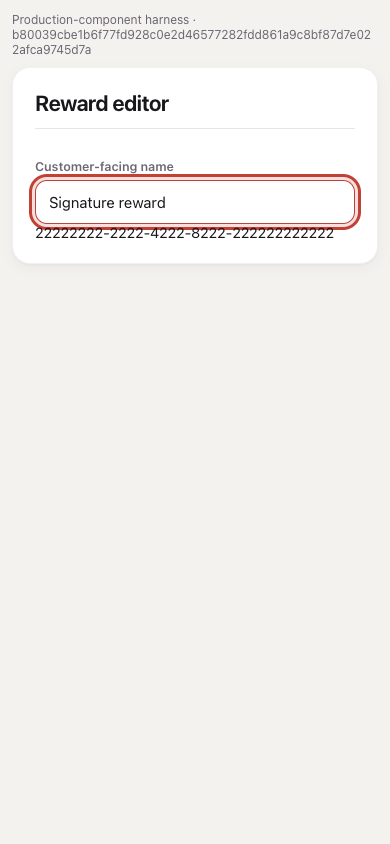
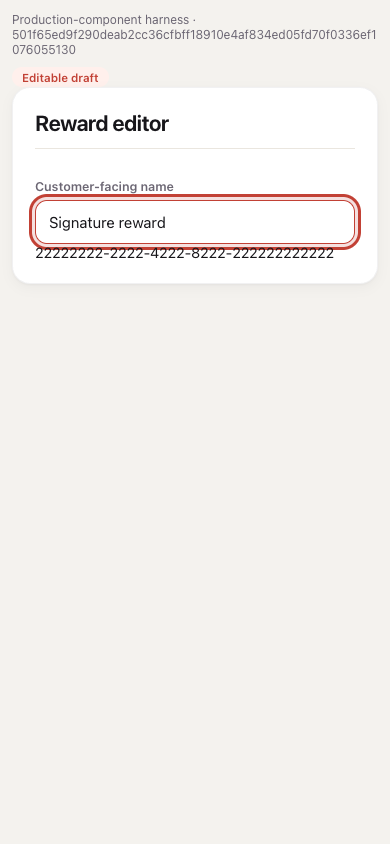
fix(grow): label editable drafts truthfully (V140)

Changed region(s): [[0.0615, 0.1848, 0.9231, 0.3081], [0.0308, 0.0308, 0.9538, 0.154]]

diff --git a/tests/browser/reward-overview-owner-visual.html b/tests/browser/reward-overview-owner-visual.html
@@ -1,5 +1,5 @@
 <!doctype html><html lang="en"><head><meta charset="utf-8"><meta name="viewport" content="width=device-width,initial-scale=1"><link rel="icon" href="data:,">
[2 lines of base64/hex data omitted]
 /* ============================================================================
    Frenly design system v2 — "mockup layout, iOS polish" (owner ruling 2026-07-18)
    Principles: 8pt grid · SF-grade type with tight optical tracking · hairline
@@ -978,7 +978,7 @@ button.rewards-overview-card:focus-visible{outline:3px solid rgba(201,67,51,.25)
 }
 
     body{padding:24px}.visual-shell{max-width:1180px;margin:0 auto}.visual-provenance{margin:0 0 10px;color:var(--muted);font-size:12px;overflow-wrap:anywhere}
-    @media(max-width:600px){body{padding:12px}}</style></head><body><div class="visual-shell"><p class="visual-provenance">Production-component harness · b80039cbe1b6f77fd928c0e2d46577282fdd861a9c8bf87d7e022afca9745d7a</p><main id="main"></main></div>
+    @media(max-width:600px){body{padding:12px}}</style></head><body><div class="visual-shell"><p class="visual-provenance">Production-component harness · 501f65ed9f290deab2cc36cfbff18910e4af834ed05fd70f0336ef1076055130</p><main id="main"></main></div>
     <script>
     const $=id=>document.getElementById(id);
     const esc=value=>String(value??'').replace(/[&<>"']/g,char=>({'&':'&amp;','<':'&lt;','>':'&gt;','"':'&quot;',"'":'&#39;'}[char]));
@@ -987,6 +987,7 @@ button.rewards-overview-card:focus-visible{outline:3px solid rgba(201,67,51,.25)
       loadingState:({title})=>'<section class="card">Loading '+esc(title)+'…</section>',
       emptyState:({title,body})=>'<div class="empty"><b>'+esc(title)+'</b><p>'+esc(body)+'</p></div>',announce:()=>{},
       pageHeader:({title,subtitle})=>'<header class="cui-page-head"><div class="cui-page-title"><div><h1>'+esc(title)+'</h1><p>'+esc(subtitle||'')+'</p></div></div></header>',
+      action:({id,label,variant='primary'})=>'<button class="btn '+esc(variant)+'" id="'+esc(id)+'">'+esc(label)+'</button>',
       activateDialog:(modal,{onClose,initialFocus}={})=>{const prior=document.activeElement;
         const keydown=event=>{if(event.key==='Escape'){event.preventDefault();onClose?.()}};
         document.addEventListener('keydown',keydown);queueMicrotask(()=>modal.querySelector(initialFocus)?.focus());
@@ -1022,6 +1023,11 @@ button.rewards-overview-card:focus-visible{outline:3px solid rgba(201,67,51,.25)
    still only ever sees that one module key pass the filter, so hasRewards/hasWinback below
    can never both be false while this renders. Links to whichever tab is already open if the
    staff member is already on the Grow surface, else defaults to Everyday rewards. */
+    function loyaltyAuthorityActionV140({canManage=false,draftVersionId=null}={}){
+  if(!canManage)return '<span class="pill off">Read only</span>';
+  if(draftVersionId)return '<span class="pill new">Editable draft</span>';
+  return CUI.action({id:'loyaltyRecommend',label:'Create recommended draft',iconName:'add',variant:'secondary'});
+}
     function growLoyaltyEditorIntentV139({focusTarget=null,rewardId=null}={}){
   if(rewardId)return {kind:'reward',rewardId};
   if(focusTarget==='birthdayLabel')return {kind:'birthday'};
@@ -1128,7 +1134,7 @@ function pruneRewardSiblingsV139(root){
     }};
     async function loyaltyPage(modelOverride,draftVersionId,recommendation,stableRefresh,editorIntent){
       const host=M();
-      host.innerHTML='<section class="card" id="loyaltyCustomerRedemption">Customer redemption</section><div class="split"><section class="card" id="loyaltyProgramEditor"><h2>Earning editor</h2><label for="lm">Loyalty model</label><select id="lm"><option>Simple points</option></select><label for="lr">Points needed to redeem</label><input id="lr" value="1000"></section><section class="card" id="loyaltyRewardEditor"><h2>Reward editor</h2><button class="btn sm" id="rwAdd">+ Add reward</button><div class="reward-list" id="rwList">'+fixture.rewards.map(reward=>'<button class="btn ghost sm rwEdit" data-reward-id="'+reward.id+'">Edit '+esc(reward.customer_name)+'</button>').join('')+'</div><div id="rwEditor"></div></section></div><section class="card" id="birthdayEditorCard"><label for="birthdayLabel">Birthday benefit</label><input id="birthdayLabel" value="Birthday Glow"></section>';
+      host.innerHTML='<div id="loyaltyAuthority">'+loyaltyAuthorityActionV140({canManage:!isManager,draftVersionId})+'</div><section class="card" id="loyaltyCustomerRedemption">Customer redemption</section><div class="split"><section class="card" id="loyaltyProgramEditor"><h2>Earning editor</h2><label for="lm">Loyalty model</label><select id="lm"><option>Simple points</option></select><label for="lr">Points needed to redeem</label><input id="lr" value="1000"></section><section class="card" id="loyaltyRewardEditor"><h2>Reward editor</h2><button class="btn sm" id="rwAdd">+ Add reward</button><div class="reward-list" id="rwList">'+fixture.rewards.map(reward=>'<button class="btn ghost sm rwEdit" data-reward-id="'+reward.id+'">Edit '+esc(reward.customer_name)+'</button>').join('')+'</div><div id="rwEditor"></div></section></div><section class="card" id="birthdayEditorCard"><label for="birthdayLabel">Birthday benefit</label><input id="birthdayLabel" value="Birthday Glow"></section>';
       applyGrowLoyaltyEditorIsolationV139(host,editorIntent);
       host.querySelectorAll('.rwEdit').forEach(button=>button.onclick=()=>{
         const reward=fixture.rewards.find(item=>item.id===button.dataset.rewardId);
@@ -1891,7 +1897,7 @@ function pruneRewardSiblingsV139(root){
     await mountGrowSurface(initialAction.surface,{focus:false,draftOverride:hashParam||growDraftVersionId,...initialAction});
   }
 }
[2 lines of base64/hex data omitted]
       viewport:{clientWidth:document.documentElement.clientWidth,scrollWidth:document.documentElement.scrollWidth},
       title:$('rewardJourneyTitle')?.textContent||'',cards:[...document.querySelectorAll('.grow-programme-row')].map(card=>({tag:card.tagName,programmeKind:card.dataset.programmeKind||null,kind:card.dataset.rewardsOverviewEdit||null,rewardId:card.dataset.rewardId||null,programId:card.dataset.programId||null,href:card.getAttribute('href'),height:card.getBoundingClientRect().height,width:card.getBoundingClientRect().width,text:card.textContent.trim()})),
       editButtons:document.querySelectorAll('[data-rewards-overview-edit]').length,openedRewardId:window.__openedRewardId||null,
@@ -1904,6 +1910,7 @@ function pruneRewardSiblingsV139(root){
       birthdayRpcCalls:window.__rpcCalls.filter(name=>name==='get_active_birthday_program').length,
       birthdayTableReads:window.__tableReads.filter(name=>name==='birthday_program_versions').length,
       retentionName:$('rn')?.value||'',retentionMissing:Boolean($('retentionExactProgramMissing')),
+      authorityLabel:$('loyaltyAuthority')?.textContent.trim()||'',
       editorIntent:M()?.dataset.growEditorIntent||'',programEditors:document.querySelectorAll('#loyaltyProgramEditor').length,
       rewardEditors:document.querySelectorAll('#loyaltyRewardEditor').length,birthdayEditors:document.querySelectorAll('#birthdayEditorCard').length,
       redemptionEditors:document.querySelectorAll('#loyaltyCustomerRedemption').length,rewardLists:document.querySelectorAll('#rwList').length,

diff --git a/tests/browser/v129-trial-test-visual.html b/tests/browser/v129-trial-test-visual.html
@@ -1,5 +1,5 @@
 <!doctype html><html lang="en"><head><meta charset="utf-8"><meta name="viewport" content="width=device-width,initial-scale=1">
[2 lines of base64/hex data omitted]
 /* ============================================================================
    Frenly design system v2 — "mockup layout, iOS polish" (owner ruling 2026-07-18)
    Principles: 8pt grid · SF-grade type with tight optical tracking · hairline
@@ -979,7 +979,7 @@ button.rewards-overview-card:focus-visible{outline:3px solid rgba(201,67,51,.25)
 
   body{padding:20px}.v129-shell{max-width:1180px;margin:auto}.v129-provenance{font-size:11px;color:var(--muted);overflow-wrap:anywhere;margin-bottom:10px}.v129-nav{display:flex;gap:8px;overflow:auto;margin-bottom:14px}.v129-nav button{white-space:nowrap}.appointment-detail-modal{position:relative;inset:auto;background:transparent;padding:0}.appointment-detail-modal .modal-card{margin:0 auto}
   @media(max-width:600px){body{padding:10px}.card{padding:16px}}
-  </style></head><body><div class="v129-shell"><p class="v129-provenance">Actual production-renderer harness · fc972ff64351f988dc0f76d199c3d18096c2595d6c58ae60ff56a76d6c84262a</p>
+  </style></head><body><div class="v129-shell"><p class="v129-provenance">Actual production-renderer harness · c56943502ebf0dc1f920c844137470f3377342f135d819c1f628b6fe4ab5f448</p>
   <nav class="v129-nav" aria-label="V129 acceptance views"><button class="btn" data-view="customers">Customers</button><button class="btn ghost" data-view="profile">Customer profile</button><button class="btn ghost" data-view="appointment">Appointment</button><button class="btn ghost" data-view="sale">Record sale</button></nav>
   <main id="main"></main></div><div id="toast" class="toast"></div><div id="appStatus"></div><div id="appAlert"></div><script>
   (function customerUiFactory(global){
@@ -3618,6 +3618,11 @@ async function withGrowEditorContinuity(render,{message='Draft updated.',preserv
     growHost.classList.remove('grow-panel-updating');growHost.removeAttribute('aria-busy');
   }
 }
+function loyaltyAuthorityActionV140({canManage=false,draftVersionId=null}={}){
+  if(!canManage)return '<span class="pill off">Read only</span>';
+  if(draftVersionId)return '<span class="pill new">Editable draft</span>';
+  return CUI.action({id:'loyaltyRecommend',label:'Create recommended draft',iconName:'add',variant:'secondary'});
+}
 function growLoyaltyEditorIntentV139({focusTarget=null,rewardId=null}={}){
   if(rewardId)return {kind:'reward',rewardId};
   if(focusTarget==='birthdayLabel')return {kind:'birthday'};
@@ -3811,7 +3816,7 @@ async function loyaltyPage(modelOverride,draftVersionId=null,recommendation=null
   const firmExpiryMode=p?.expiry_mode??'none';
   const firmExpiryDays=positiveExpiryDays(p?.expiry_days)||365;
   const firmExpiryNeedsDays=expiryModeRequiresDays(firmExpiryMode);
-  const loyaltyActions=canManageLoyalty&&!draftVersionId?CUI.action({id:'loyaltyRecommend',label:'Create recommended draft',iconName:'add',variant:'secondary'}):'<span class="pill off">Read only</span>';
+  const loyaltyActions=loyaltyAuthorityActionV140({canManage:canManageLoyalty,draftVersionId});
   const publishedBirthdaySummary=publishedBirthdayProgram
     ?`<div class="wallet-line" style="margin-top:12px"><div><b>${esc(publishedBirthdayProgram.customer_label||'Birthday benefit')}</b><p class="muted small" style="margin-top:4px">${esc(publishedBirthdayProgram.fulfillment_kind==='discount_pct'?`${publishedBirthdayProgram.discount_percent}% off`:publishedBirthdayProgram.manual_item||'Manual benefit')} · ${publishedBirthdayProgram.active?'Live for eligible customers':'Published but paused'} · window ${Number(publishedBirthdayProgram.window_days_before||0)} day(s) before to ${Number(publishedBirthdayProgram.window_days_after||0)} day(s) after</p>${publishedBirthdayProgram.customer_description?`<p class="muted small" style="margin-top:4px">${esc(publishedBirthdayProgram.customer_description)}</p>`:''}</div><span class="spacer"></span><span class="pill ${publishedBirthdayProgram.active?'on':'off'}">Published</span></div>`
     :'<p class="muted small" style="margin-top:10px">No birthday benefit is published. Starting a draft makes no offer until you complete, explicitly enable, and publish it.</p>';
@@ -8842,6 +8847,6 @@ async function svRunTopupFlow({branches,state,testOnly}){
   }
   document.querySelectorAll('[data-view]').forEach(button=>button.addEventListener('click',()=>showView(button.dataset.view)));
   window.addEventListener('error',event=>window.__consoleErrors.push(event.message));
[2 lines of base64/hex data omitted]
   const initial=new URLSearchParams(location.search).get('view')||'customers';showView(initial).catch(error=>window.__consoleErrors.push(String(error?.stack||error)));
   </script></body></html>

diff --git a/app/index.html b/app/index.html
@@ -9550,6 +9550,11 @@ async function withGrowEditorContinuity(render,{message='Draft updated.',preserv
     growHost.classList.remove('grow-panel-updating');growHost.removeAttribute('aria-busy');
   }
 }
+function loyaltyAuthorityActionV140({canManage=false,draftVersionId=null}={}){
+  if(!canManage)return '<span class="pill off">Read only</span>';
+  if(draftVersionId)return '<span class="pill new">Editable draft</span>';
+  return CUI.action({id:'loyaltyRecommend',label:'Create recommended draft',iconName:'add',variant:'secondary'});
+}
 function growLoyaltyEditorIntentV139({focusTarget=null,rewardId=null}={}){
   if(rewardId)return {kind:'reward',rewardId};
   if(focusTarget==='birthdayLabel')return {kind:'birthday'};
@@ -9743,7 +9748,7 @@ async function loyaltyPage(modelOverride,draftVersionId=null,recommendation=null
   const firmExpiryMode=p?.expiry_mode??'none';
   const firmExpiryDays=positiveExpiryDays(p?.expiry_days)||365;
   const firmExpiryNeedsDays=expiryModeRequiresDays(firmExpiryMode);
-  const loyaltyActions=canManageLoyalty&&!draftVersionId?CUI.action({id:'loyaltyRecommend',label:'Create recommended draft',iconName:'add',variant:'secondary'}):'<span class="pill off">Read only</span>';
+  const loyaltyActions=loyaltyAuthorityActionV140({canManage:canManageLoyalty,draftVersionId});
   const publishedBirthdaySummary=publishedBirthdayProgram
     ?`<div class="wallet-line" style="margin-top:12px"><div><b>${esc(publishedBirthdayProgram.customer_label||'Birthday benefit')}</b><p class="muted small" style="margin-top:4px">${esc(publishedBirthdayProgram.fulfillment_kind==='discount_pct'?`${publishedBirthdayProgram.discount_percent}% off`:publishedBirthdayProgram.manual_item||'Manual benefit')} · ${publishedBirthdayProgram.active?'Live for eligible customers':'Published but paused'} · window ${Number(publishedBirthdayProgram.window_days_before||0)} day(s) before to ${Number(publishedBirthdayProgram.window_days_after||0)} day(s) after</p>${publishedBirthdayProgram.customer_description?`<p class="muted small" style="margin-top:4px">${esc(publishedBirthdayProgram.customer_description)}</p>`:''}</div><span class="spacer"></span><span class="pill ${publishedBirthdayProgram.active?'on':'off'}">Published</span></div>`
     :'<p class="muted small" style="margin-top:10px">No birthday benefit is published. Starting a draft makes no offer until you complete, explicitly enable, and publish it.</p>';

diff --git a/docs/qa/TRACEABILITY-MATRIX.md b/docs/qa/TRACEABILITY-MATRIX.md
@@ -58,6 +58,7 @@ journey.
 | `GROW-VISIBILITY-001` | Owner sees one truthful active/on or paused/off control in the exact submodule, backed by the existing server programme/module contract. | Owner toggles once with pending/success/error feedback; denied roles expose no writer. Staff fulfilment follows the same effective state. | After customer refresh, off/unconfigured programme cards and new actions are absent; existing balances, liabilities and immutable history remain readable where legally required. | `SPA-GLOW` active/paused Loyalty, Birthday, Bring-back, Referrals, Membership and one valid legacy gift; `CAFE-HARBOUR` stamp path. | On/off, enabled-but-unconfigured, future/ended, module disabled/read-only, existing liability, retry/replay, refresh/reconnect, cross-tenant. | `v138-auth-grow-closure.test.mjs`; disposable V138 referral/membership execution checks; current `v45_birthday_benefits.sql` owner-off → customer-refresh plus existing-promise check; existing effective Loyalty/retention/gift-card suites. Production toggle proof pending. | `VERIFIED_LOCAL` |
 | `GROW-HUB-001` | Left navigation presents one entitlement-neutral **Grow** destination rather than separate Rewards/Referrals/Memberships/Gift cards entries. The overview remains the source of submodule status and navigation. | Owner opens an exact submodule, edits/saves, then **Back to Grow overview** restores the overview and prior scroll/filter; browser back and direct deep links remain valid. A retention-only owner can still open the hub and create the shared draft. | Customer projection is unchanged until the governing programme is published/enabled. | `SPA-GLOW` full programme mix plus retention-only owner; owner, manager and front desk. | Empty/not-included/read-only/disabled/error; no Loyalty but retention access; stale exact ID; refresh/back/forward; mobile drawer; 390/412/landscape; focus restoration. | `verify-reward-overview-owner.mjs` PASS at desktop/375/390/412px; exact reward/Bring-back, read-only, disabled, empty and retry evidence in `reward-overview-owner-browser/`; `v138-auth-grow-closure.test.mjs`. | `VERIFIED_BROWSER` |
 | `GROW-EDITOR-ISOLATION-001` | Grow overview rows and direct deep links carry one exact editor intent: Earn, one stable reward UUID, Birthday, one stable Bring-back UUID, Referrals, Memberships or Gift cards. | Selecting a row hides the overview home and shows only the selected editor plus its contextual Back action. Save/Done returns to the overview; browser Back and refresh retain the exact selection. No sibling editor or overview writer is visible, focusable or writable. | Customer continues to see only the published/active programme; editor isolation itself creates no customer mutation. | Live Cubbly points configuration with **Free tofu** plus unconfigured Birthday; `SPA-GLOW` duplicate-name rewards, Birthday Glow and two Bring-back rules. | Direct route, overview click, refresh/back/forward; missing/stale stable ID; owner/read-only/disabled/error; unsaved draft; desktop 1440, mobile 390/412, keyboard focus and no overflow. | Owner screenshot reproduces the defect on served build `c22eb2189f4b`. V139 passes 5/5; V138 passes 11/11; source-bound Chromium and full 1,434/1,434 validation pass; Sol accepted with P0/P1/P2 all zero. Production deployment `dpl_9YfeQfJ7tkqLAyEs81iL54oE5mWz` is READY; authenticated Cubbly Earn verification found one programme editor, zero reward/Birthday/redemption siblings and no overflow. Production already contained the reviewed V138 migration and six expected RPCs. Evidence: `V139-GROW-EDITOR-ISOLATION.md`. | `VERIFIED_PRODUCTION` |
+| `GROW-AUTHORITY-LABEL-001` | Loyalty editor header derives authority copy from write permission and draft existence as separate states. | Authorized owner + existing editable draft shows **Editable draft** and editable controls; authorized owner + no draft shows **Create recommended draft**; manager/read-only role shows **Read only** and zero writers. | Display-only authority copy never changes the published customer programme or customer visibility. | Cubbly owner Earn route from authenticated V139 production; `SPA-GLOW` owner/manager source-bound fixtures. | Owner/manager; draft present/absent; direct Earn/reward routes; refresh; desktop 1440 and mobile 390; denied writer inventory and no overflow. | Production build `b04727b1ebba` reproduced the misleading label. `v140-grow-draft-authority-label.test.mjs` failed 0/4 red-first, then focused V138–V140 passed 20/20. Source-bound Chromium passed owner desktop and manager 390px with zero authority action/no overflow under hash `501f65ed…`; complete gate passed 1,438/1,438 plus build. Sol independently accepted with P0/P1/P2 all zero. Evidence: `V140-GROW-DRAFT-AUTHORITY-LABEL.md`. | `VERIFIED_BROWSER` |
 | `GROW-AUTO-001` | Writable owner with no editable draft sees one truthful **Create recommended rewards draft** action. One click opens one compact review sheet showing goal, governed business type, exact draft scope, price input and cost limitation; one explicit confirmation creates at most one unpublished draft. If a draft exists, the action is **Continue rewards setup** and opens it directly in one click without opening the generator or writing. | The new-draft button disables while pending, exact retry reuses its request key, success presents a concise draft-ready summary and one **Review draft** action into the exact editor. Owner-only authority remains server-enforced; manager/read-only/disabled Loyalty receives no writer. | No click publishes or changes staff/customer projection. Published programme remains authoritative until the separate protected publication action; the automatic scope does not claim Birthday, Referrals, Memberships or Gift cards were configured. | `SPA-GLOW` Olivia, Facial, active services/products and real prices, two published Signature rewards and Birthday Glow; no draft, existing draft v2, Maya read-only. `CAFE-HARBOUR` verifies the governed stamp model, reference price and threshold unit. A third unknown-sector fixture verifies the governed `classic` null threshold. | Open/cancel/Escape zero write; double tap; delayed success; terminal and ambiguous failure/retry; existing/concurrent draft; all three governed recommender models; role/module denial; 1440, 375×667, 390, 412 and 844×390 landscape; keyboard focus; reduced motion; no hidden primary action or overflow. | `tests/business-ui/v137-minimal-auto-rewards.test.mjs` proves the one-sheet/direct-resume/success/idempotency boundaries, rejects currency formatting of `cost_points`, and prevents null→0 coercion. Source-bound Chrome proves zero-write dismiss, two-action new creation, one-action existing continuation, one-key retry, concurrent resume, `SPA-GLOW` Points with milestones/SGD 64.00/**320 points**, `CAFE-HARBOUR` Stamp card/SGD 12.00/**8 stamps**, `classic` Simple points/SGD 30.00/**Set in the draft**, exact Loyalty/Bring-back destinations, owner/read-only boundaries, 1440, 375×667 and 844×390 action visibility plus 390/412 no-overflow checks. Sol rejected two earlier frozen candidates, then accepted exact corrected digest `8332d446…` with P0/P1/P2 all zero. Artifacts and remaining authenticated-target limitation: `V137-MINIMAL-AUTO-REWARDS.md`. | `VERIFIED_BROWSER` |
 | `REWARD-OVERVIEW-001` | Owner publishes one earning model/rate, a classic redemption promise or sequenced catalogue rewards, and an optional birthday benefit. The overview reads only the published version; edits create/resume the protected draft. | Owner sees one ordered **Rewards overview** with the earn rule, every active reward, paused/archived reward disclosure and birthday configuration. Clicking an individual stable-ID card opens that exact reward editor and retains focus there; clicking birthday opens its exact birthday editor. Saving stays draft-safe until explicit publish, then refresh reads the published values. A read-only manager may review but receives no writer. | Customer preview/portal mirrors only the published earning model, currently applicable reward thresholds/benefits and birthday eligibility; classic leftovers, paused programmes, future rewards and ended claim windows are explicitly unavailable according to the server-authoritative snapshot time, and no draft or invented reward appears. | `CAFE-HARBOUR`: SGD 5 per stamp, reward at stamp 5 and stamp 10; `SPA-GLOW`: 10 points per SGD, classic 1,000 points -> SGD 10 plus active/disabled Birthday Glow; duplicate display-name rewards with different UUIDs prove identity routing. | No programme; paused programme; empty rewards; disabled birthday; classic vs points-catalogue vs stamps; future/ended claim window; duplicate name/threshold; archived item; many/long names; draft absent/present; read-only manager; Loyalty disabled/read-only; load failure/retry; save conflict/lost response; refresh/reconnect; keyboard/touch; desktop/390px/no overflow. | Red-first `tests/business-ui/reward-overview-owner.test.mjs` (6/6) plus V122 workflow (7/7). `db/tests/v127_rewards_overview_birthday_reader.sql` passes server `as_of`, owner/read-only manager plus denied/cross-tenant/anon/raw-table/draft denial on a disposable local Supabase clone. Chromium production snapshot-adapter source `0182cb1…` passes 1440px exact second-UUID interaction with retained editor-input focus, 390px Birthday Glow/no overflow/44px cards, and 390px manager zero-writer state with one birthday RPC and zero birthday-table reads. Sol independently accepts this exact candidate with no P0/P1/P2 findings. Artifacts and exact limits: `REWARD-OVERVIEW-OWNER-ACCEPTANCE.md`. Exact reward save/publish/customer mirror, conflict/lost-response and production remain pending. | `VERIFIED_BROWSER` |
 | `REWARD-SETUP-001` | Owner opens Grow with Loyalty `rw`; the published overview may be complete, empty or partially unavailable, and an editable draft may or may not already exist. | One dominant **Set up rewards automatically** button precedes the complete Rewards overview. Its accessible three-step popup confirms the goal, explains the governed business inputs, and gives a draft-only safety check; open/cancel cause zero writes; final confirmation calls `generate_retention_recommendation` once with a stable retry key and creates or resumes one editable draft only. Profitability, journey anatomy and technical tools stay under secondary disclosure. Read-only managers can review but have no setup writer. | Staff and customers continue using only the published programme until the owner separately reviews and publishes; after publication and refresh, staff fulfilment and the customer portal mirror the exact earning/reward/birthday result. | `SPA-GLOW`: governed `facial` sector, 10 points per SGD, Signature reward milestones, Birthday Glow, Glow serum SGD 68/SGD 24 cost; comparison states include existing draft version 2 and a stale second tab. | Empty programme/catalogue; overview read failure/retry; existing/concurrent draft; RPC failure/lost response/retry; duplicate submit; owner vs read-only manager; Loyalty disabled/read-only; cross-tenant/anon; Escape/focus return; keyboard/touch; 1440px and 390px/no overflow. | `tests/business-ui/v128-simple-rewards-setup.test.mjs` 8/8; Chromium `tests/browser/verify-reward-overview-owner.mjs` PASS under `438a10a…`; disposable canonical 167/167 plus `db/tests/v128_simple_rewards_recommender.sql` PASS/zero residue; repository 1,362/1,362 plus build; independent Sol ACCEPT for exact candidate `10fb9a1…`, no P0/P1/P2. Target publication → staff → customer persistence remains. | `VERIFIED_BROWSER` |

diff --git a/docs/qa/OWNER-ISSUE-LEDGER.md b/docs/qa/OWNER-ISSUE-LEDGER.md
@@ -92,6 +92,7 @@ phase has evidence; it is intentionally not marked closed.
 | `GROW-VISIBILITY-001` | Owner clarification 2026-08-02: every applicable Grow programme needs a simple on/off control. Off/inactive programmes must not appear in the customer view, while prior customer value and immutable history remain safe. | `VERIFIED_LOCAL` | The V138 rollback suite behaviorally proves disabled Referral creates no reward and inactive Membership creates neither membership nor sale. The current C45 rollback suite proves Birthday OFF hides new eligibility after customer refresh while retaining an existing immutable promise. Earn/catalogue reward, Bring-back and Gift-card off boundaries remain pinned by their existing active filters and liability-preserving suites. Production owner→customer proof remains required. |
 | `GROW-HUB-001` | Owner clarification 2026-08-02: consolidate Grow into one overview and one workspace. Earn, Birthday, Bring-back, Referrals, Memberships and Gift cards are submodules opened from the overview; finishing an edit returns to the overview instead of requiring multiple left-side Grow tabs. | `VERIFIED_BROWSER` | V138 exposes one entitlement-neutral `#/grow` nav, exact submodule rows, Back/Done return, read-only/disabled/empty/retry states and passes Chrome at 1440 plus 375/390/412px with 44px controls and no horizontal overflow. A retention-only owner can open/create the shared draft without Loyalty access. Production proof remains required. |
 | `GROW-EDITOR-ISOLATION-001` | Owner live screenshot 2026-08-02, production build `c22eb2189f4b`: selecting **Earn** at `#/loyalty/<business>/earning` still renders the **Birthday benefit** form below the points editor. Selecting any Grow row must replace the overview with only that exact programme editor; points must never open Birthday, another adjacent form, or an editor appended beneath the overview. | `VERIFIED_PRODUCTION` | The red V139 regression passes 5/5, prior V138 closure passes 11/11, source-bound Chromium passes exact isolation at desktop/390px, and repository validation passes 1,434/1,434 plus build. Sol independently accepted with P0/P1/P2 all zero. Production deployment `dpl_9YfeQfJ7tkqLAyEs81iL54oE5mWz` is READY on `www.peekaa.asia`; authenticated Cubbly Earn verification found one programme editor and zero reward/Birthday/redemption sibling editors with no overflow. Production already contained the reviewed V138 migration and six expected RPCs, so no duplicate DDL was applied. Evidence: `V139-GROW-EDITOR-ISOLATION.md`. Other programme-write and owner→customer proofs remain in their own ledger rows. |
+| `GROW-AUTHORITY-LABEL-001` | Final authenticated V139 production walkthrough on 2026-08-02, build `b04727b1ebba`: Cubbly's owner can edit the exact Earn draft, but its header says **Read only**. An authorized owner with an editable draft must see **Editable draft**; a manager or other read-only role must see **Read only** and zero writers; an authorized owner without a draft must see the create-draft action. | `VERIFIED_BROWSER` | Reproduced on canonical `www.peekaa.asia` after V139 deployment. Root cause: the header ternary treated every existing draft as read-only instead of testing write authority independently from draft existence. V140 red-first failed 0/4, focused V138–V140 passed 20/20, source-bound Chromium passed owner desktop and manager 390px authority states with no overflow, and the repository gate passed 1,438/1,438 plus build. Sol independently accepted with P0/P1/P2 all zero and no migration/data/function/config/security change. Evidence: `V140-GROW-DRAFT-AUTHORITY-LABEL.md`. Production release proof remains required. |
 | `GROW-AUTO-001` | Owner follow-up 2026-08-02 after the measured automatic-setup review: “Please close the gap.” The review found four taps for both a new and existing draft, a single preselected goal followed by two read-only screens, hidden continuation actions on a 375×667 phone and phone landscape, an abrupt handoff into the detailed editor, and a label that implied broader automatic configuration than the one governed loyalty draft actually created. | `VERIFIED_BROWSER` | `SPA-GLOW` red reproduction measured new/existing/retry at four/four/five taps with zero meaningful choices and off-screen actions. V137 now creates in two actions through one truthful review sheet, resumes an existing draft in one action/zero generator writes, shows a concise model/reference-price/reward-threshold handoff, reuses the same retry identity and never publishes. Scope explicitly excludes Birthday, Referrals, Memberships and Gift cards; real fulfilment cost is disclosed as absent. Source-bound Chrome covers `SPA-GLOW` **320 points**, `CAFE-HARBOUR` **8 stamps**, and the governed `classic` null threshold as **Set in the draft**, plus owner/read-only, cancel/Escape, failure/retry, concurrent draft, exact editor handoff, 1440, 375×667, 390, 412 and 844×390 with visible 44px actions/no overflow. Sol rejected two earlier candidates for currency-unit and null→0 truthfulness bugs; both have red-first/source-bound regressions. Sol accepted frozen digest `8332d446…` with P0/P1/P2 all zero. Evidence: `V137-MINIMAL-AUTO-REWARDS.md`. Authenticated target persistence remains pending. |
 | `REWARD-OVERVIEW-001` | Owner messages 2026-07-31 and 2026-08-01: business owner needs one game-like overview containing birthday, whatever points/stamps programme is configured, and every reward; it must explain how each is achieved, including sequenced milestones such as five stamps for one reward and another five for the next, and clicking a specific reward must edit that exact reward. | `VERIFIED_BROWSER` | Red-first reproduction confirmed V122 omitted classic points redemption/earning, used non-interactive cards and generic Add routing. The amended production component shows earning, applicable classic/catalogue rewards, paused/archived rows and birthday in one view; stable UUID clicks open the exact reward without losing input focus, birthday opens its editor, draft-first routing prevents direct publication, incomplete reads expose Retry, and read-only manager gets zero writers. Sol rejected hash `8a39752…` after finding a closed-table birthday read and overstated paused/scheduled/ended availability. V127 replaces it with a tenant-scoped Loyalty-read RPC while retaining closed table/draft authority; its server `as_of` governs paused/future/ended availability instead of the owner's device clock. Focused 13/13, local rollback SQL owner/manager/denied/cross-tenant/anon authority, and Chromium owner/manager 1440/390 evidence pass under source hash `0182cb1…`. Sol independently accepts that exact candidate with no P0/P1/P2 findings. Exact reward database before/after, linked-customer mirror, conflict/lost-response and authorized production evidence remain before close. Evidence: `REWARD-OVERVIEW-OWNER-ACCEPTANCE.md`. |
 | `REWARD-SETUP-001` | Owner message and screenshot 2026-08-01: the Grow page still has too many equal-weight controls, the one-page rewards overview is not obvious, and the owner does not know where to start. Provide one button that sets up rewards automatically through a simple popup. | `VERIFIED_BROWSER` | Screenshot and red-first tests reproduced four competing Trigger/Who/Reward/Result cards, separate edit actions and economics before a clear start. V128 now puts one dominant **Set up rewards automatically** button and the complete published Rewards overview before collapsed secondary settings. The accessible popup makes zero writes on open/cancel, uses governed sector/catalogue inputs, creates or resumes one editable draft with a stable retry key, never publishes, and truthfully leaves cost/profitability for review. Chromium passes owner/manager desktop and 390px including focus, retry, existing draft and stale-tab resume under source hash `438a10a…`; a 167-migration disposable PostgreSQL rehearsal proves facial mapping, replay, one-draft serialization, read-only/disabled/cross-tenant/anon denial and zero rollback residue. Full gate: 1,362/1,362 plus build. Sol independently accepted exact staged candidate `10fb9a1…` with no P0/P1/P2 findings. Exact target owner publication → staff fulfilment → linked customer refresh and production proof remain before close. Evidence: `V128-SIMPLE-REWARDS-SETUP.md`. |

diff --git a/docs/qa/evidence/V140-GROW-DRAFT-AUTHORITY-LABEL.md b/docs/qa/evidence/V140-GROW-DRAFT-AUTHORITY-LABEL.md
@@ -1,0 +1,51 @@
+# V140 Grow draft authority label
+
+Date: 2026-08-02
+Issue: `GROW-AUTHORITY-LABEL-001`
+Fixture: authenticated Cubbly owner production reproduction plus source-bound
+`SPA-GLOW` owner/manager browser states.
+Production-component source SHA-256:
[1 lines of base64/hex data omitted]
+
+## Complaint and reproduced cause
+
+The final V139 production walkthrough showed an editable owner draft with the
+header pill **Read only**. The controls themselves were writable. The renderer
+used one ternary that returned **Read only** whenever a draft already existed,
+regardless of the owner's actual write authority.
+
+The red-first V140 regression failed 0/4 before implementation because the
+permission/draft state helper did not exist and the production renderer still
+used the misleading ternary.
+
+## Acceptance and evidence
+
+- Authorized owner with an existing draft sees **Editable draft**, not **Read
+  only**, and retains the exact editor.
+- Authorized owner without a draft sees **Create recommended draft**.
+- Manager/read-only role sees **Read only** for both draft states and receives
+  no draft action.
+- The source-bound Chromium suite passes the exact owner Earn route at desktop
+  and the manager state at 390px with no horizontal overflow.
+- Focused V138–V140 regression passes 20/20.
+- Source-bound Chromium acceptance passes with the production-component hash
+  above and refreshed evidence under
+  `docs/qa/evidence/reward-overview-owner-browser/`.
+  - `owner-editable-draft-authority-desktop-1440.png`
+  - `manager-read-only-draft-authority-mobile-390.png`
+- The complete release gate passes 1,438/1,438 tests, static quality, runtime
+  configuration, migration-manifest/canonical checks and the production build.
+
+## Release boundary
+
+This patch changes display copy only. It does not publish a programme, mutate a
+customer record, modify a production migration, or weaken a permission check.
+Sol independently accepted the frozen candidate with P0/P1/P2 all zero. The
+review reran 1,438/1,438 tests plus build, focused V138–V140 20/20, related
+V41/V128 22/22 and source-bound Chromium; it confirmed no migration, data,
+function, configuration, security or production change. Frozen reviewed
+content-manifest digest:
[1 lines of base64/hex data omitted]
+
+No V140 commit, push, merge or production deployment is authorized by the
+earlier V139 approval. A subsequent scoped owner approval remains required.

diff --git a/docs/product/PRODUCT-TRUTH.md b/docs/product/PRODUCT-TRUTH.md
@@ -259,6 +259,12 @@ status live in `../qa/TRACEABILITY-MATRIX.md`.
   while an editor is open; an editor is never appended below the overview. No
   adjacent programme form may appear above or below the selected editor. Save/Done returns to the one
   Grow overview; browser Back remains predictable and direct links remain valid.
+- Owner production verification clarification 2026-08-02: Grow authority copy
+  must describe the user's actual permission. An owner who can manage Loyalty
+  and has an editable draft sees `Editable draft`; that state must never be
+  labelled `Read only`. A user without Loyalty write authority sees `Read only`
+  and receives no write control. When no draft exists, an authorized owner sees
+  the explicit create-draft action.
 - Every programme has a clear owner-controlled on/off state where that module's
   governing contract permits it. Turning a programme off keeps its draft and
   historical value but removes the inactive programme from new customer-facing
